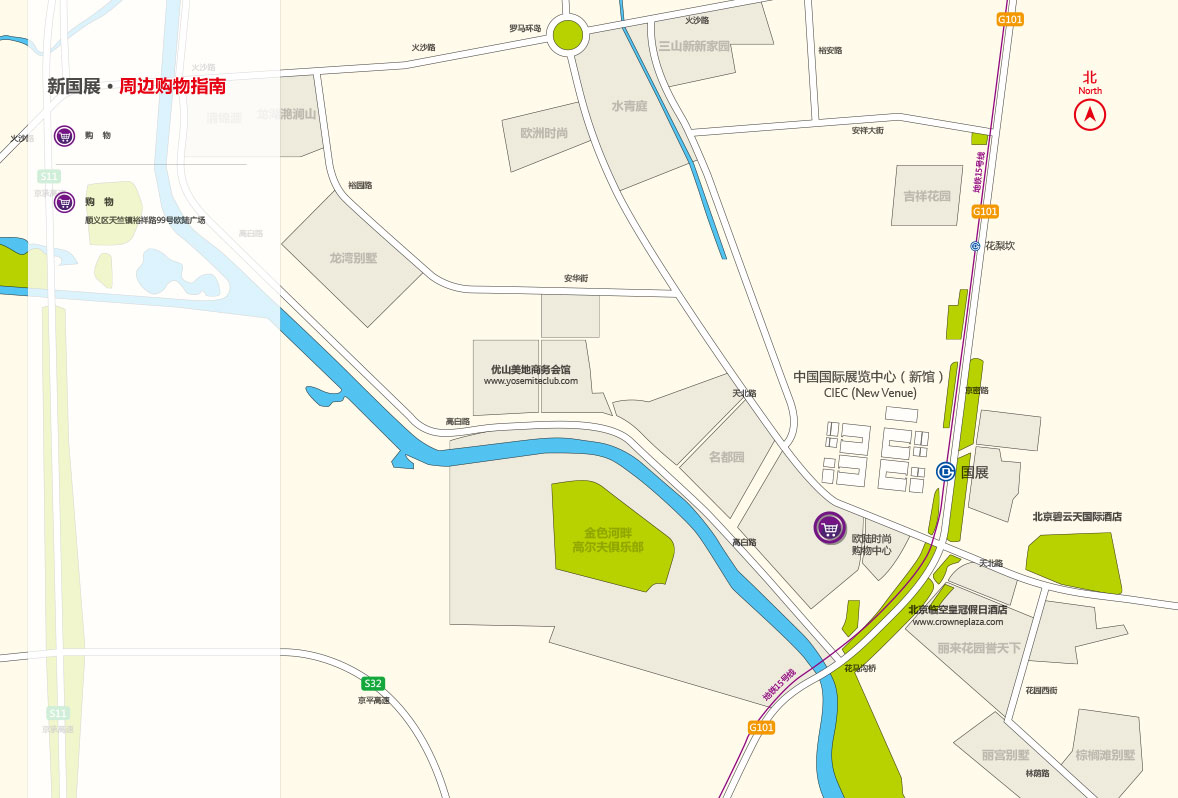
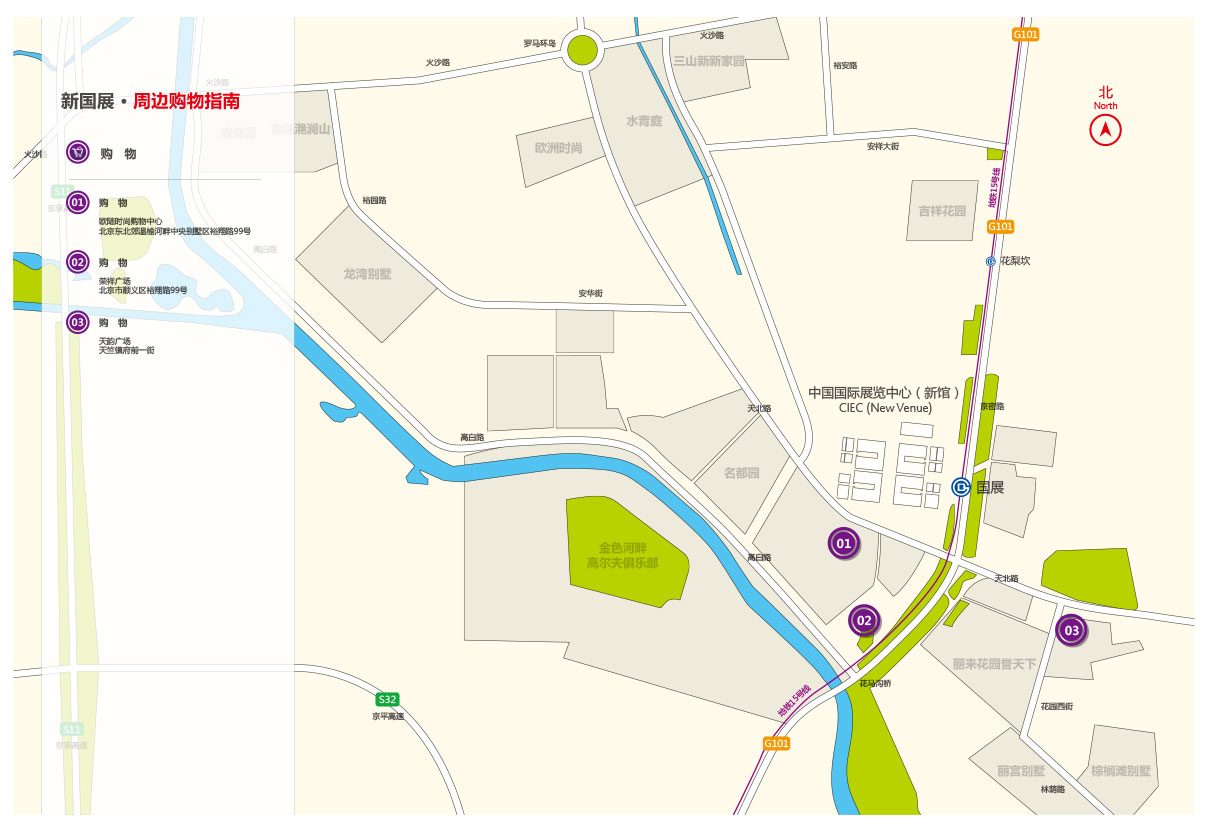
hz up

diff --git a/exhibit.com/html/traffic/01.html b/exhibit.com/html/traffic/01.html
@@ -66,7 +66,10 @@
         <img class="big_pic" src='../../img/traffic/1.jpg' />
       </section>
       <section class="exh__textList exh__traffic">
-        <p><b>地铁15号线</b> 望京西 - 望京 - 崔各庄 - 马泉营 - 孙河 - <em>国展</em> - 花梨坎 - 后沙峪 - 南法信 - 石门 - 顺义 - 俸伯</p>
+        <p><b>地铁15号线（Metro line 15）</b></p>
+        <p>清华东路西口 - 六道口 - 北沙滩 - 奥林匹克公园 - 安立路 - 大屯路东 - 关庄 - 望京西 - 望京 - 望京东 - 崔各庄 - 马泉营 - 孙河 - <em>国展</em> - 花梨坎 - 后沙峪 - 南法信 - 石门 - 顺义 - 俸伯</p>
+        <br />
+        <p><b>公交915路（Bus 915）</b></p>
         <p><b>公交915路</b> 1东直门枢纽站 2左家庄站 3三元桥站 4京顺路丽都饭店站 5大山桥东站 6五元桥西站 7东辛店站 8北皋站 9东郊农场站 10孙河站 11北甸站 12顺义马连店站 <em>13地铁国展站</em> 14花梨坎站 15地铁花梨坎站 16喇苏营站 17顺义铁匠营站 18火神营站 19地铁后沙峪站 20枯柳树站 21空港物流开发区站 22南法信站 23望泉桥东站 24梅沟营站 25四季花城站 26地铁石门站 27西辛小学站 28顺义西门站 29顺义党校站 30胜利小区站 31便民街东口站 32顺义医院站 33东风小学站 34顺义老年公寓站 35顺义妇幼保健院 36顺义滨河南口站 37顺义彩虹桥站 38顺义滨河小区站 39东大桥环岛站 40地铁俸伯站 41俸伯站 42俸伯小学站 43河北村站 44南彩汽车站</p>
       </section>
     </section>

diff --git a/exhibit.com/html/shopping/01.html b/exhibit.com/html/shopping/01.html
@@ -87,16 +87,40 @@
       <section class="exh__imgList">
         <img class="big_pic" src='../../img/shopping/map_01.jpg' />
       </section>
-      <section class="exh__textList">
+      <section class="exh__textList2">
         <table>
           <tr>
-            <td><b>地址：</b>北京东北郊温榆河畔中央别墅区裕翔路99号</td>
-            <td>99, Yu Xiang Road, Central Villa District, north of Beijing</td>
+            <td colspan="2" class="title">01 欧陆时尚广场    </td>
           </tr>
           <tr>
-            <td><b>电话：</b>(010)80466936</td>
-            <td></td>
+          <th>地址：</th>
+            <td>
+              北京东北郊温榆河畔中央别墅区裕翔路99号
+          <br />
+              99, Yu Xiang Road, Central Villa District, north of Beijing
+            </td>
           </tr>
+          <tr>
+            <td colspan="2" class="title">02 荣祥广场    </td>
+          </tr>
+          <tr>
+            <th>地址：</th>
+            <td>
+              北京市顺义区裕翔路99号<br />
+Shunyi District, Beijing Yu Xiang Road, No. 99
+            </td>
+          </tr>
+          <tr>
+            <td colspan="2" class="title">03 天韵广场   </td>
+          </tr>
+          <tr>
+            <th>地址：</th>
+            <td>
+              天竺镇府前一街<br />
+           Tianzhu town, the former street
+            </td>
+          </tr>
+          
         </table>
       </section>
     </section>

diff --git a/exhibit.com/html/shopping/01_02.html b/exhibit.com/html/shopping/01_02.html
@@ -91,7 +91,7 @@
       <section class="exh__textList2">
         <table>
           <tr>
-            <td colspan="2" class="title">华联超市</td>
+            <td colspan="2" class="title">01 华联超市    hualian supermarket</td>
           </tr>
           <tr>
           <th>地址：</th>
@@ -101,13 +101,33 @@
             </td>
           </tr>
           <tr>
-            <td colspan="2" class="title">婕妮超市</td>
+            <td colspan="2" class="title">02 婕妮超市    Jenny supermarket</td>
           </tr>
           <tr>
             <th>地址：</th>
             <td>
               北京市朝阳区榆阳路荣祥广场南<br />
               Rongxiang Plaza in Beijing city Yuyang Road south of Chaoyang District
+            </td>
+          </tr>
+          <tr>
+            <td colspan="2" class="title">03 家乐福超市    Carrefour supermarket</td>
+          </tr>
+          <tr>
+            <th>地址：</th>
+            <td>
+              北京市顺义区天北路辅路<br />
+              Shunyi District City Road, North Road, Beijing
+            </td>
+          </tr>
+          <tr>
+            <td colspan="2" class="title">04 旦旦超市    Dan Dan supermarket</td>
+          </tr>
+          <tr>
+            <th>地址：</th>
+            <td>
+              北京市顺义区天北路<br />
+           Beijing City, North Road, Shunyi District
             </td>
           </tr>
         </table>

diff --git a/exhibit.com/html/shuttle/01.html b/exhibit.com/html/shuttle/01.html
@@ -69,15 +69,16 @@
         <table>
           <tr>
             <td>班车线路1（新国展至农业展览馆）</td>
-            <td>Shuttle bus route 1</td>
+            <td>      Shuttle bus route 1（From the new state fair to the Agricultural Exhibition Hall）
+</td>
           </tr>
           <tr>
             <td>班车线路2（新国展至国贸）</td>
-            <td>Shuttle bus route 2</td>
+            <td>      Shuttle bus route 2（From China to China World Trade Center）</td>
           </tr>
           <tr>
             <td>班车线路3（新国展至机场）</td>
-            <td>Shuttle bus route 3</td>
+            <td>      Shuttle bus route 3（From the airport to the new state fair）</td>
           </tr>
         </table>
       </section>

diff --git a/exhibit.com/css/index.bundle.css b/exhibit.com/css/index.bundle.css
@@ -553,7 +553,8 @@ body {
 
 .exh__textList2 {
   background: #fcfcfc;
-  padding: 90px 60px; }
+  padding: 90px 60px;
+  font-size: 14px; }
   .exh__textList2 table {
     border: 0;
     width: 100%;
@@ -568,8 +569,10 @@ body {
       text-align: left;
       width: 60px; }
     .exh__textList2 table .title {
-      font-size: 20px;
+      font-size: 14px;
       padding-bottom: 20px; }
+    .exh__textList2 table tr:nth-child(even) {
+      border-bottom: 1px solid #ddd; }
 
 .exh__page {
   color: #777777;

diff --git a/exhibit.com/scss/index.scss b/exhibit.com/scss/index.scss
@@ -191,6 +191,7 @@
 .exh__textList2{
   background: #fcfcfc;
   padding: 90px 60px;
+  font-size:14px;
   table {
     border: 0;
     width: 100%;
@@ -207,8 +208,11 @@
       width:60px;
     }
     .title{
-      font-size:20px;
+      font-size:14px;
       padding-bottom:20px;
+    }
+    tr:nth-child(even){
+      border-bottom:1px solid #ddd;
     }
   }
 }
